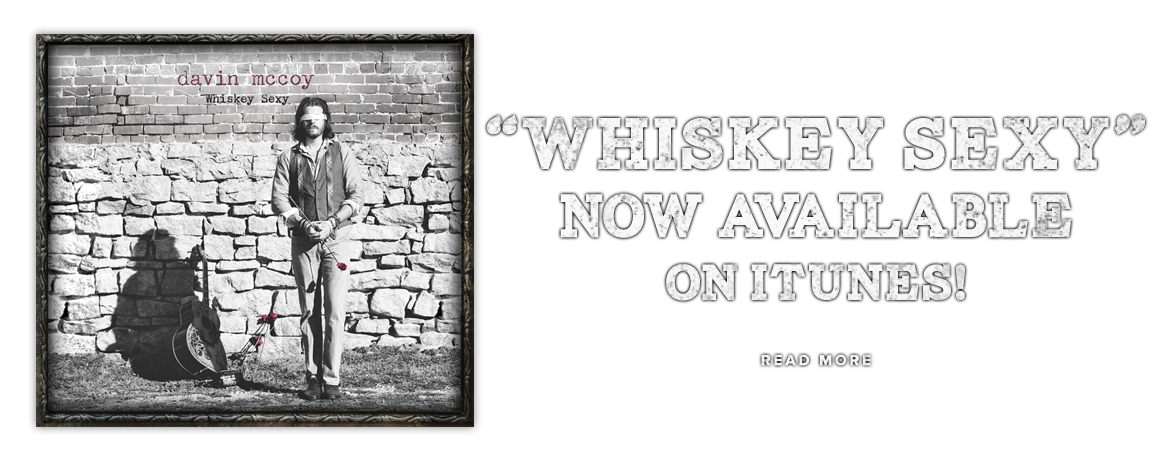
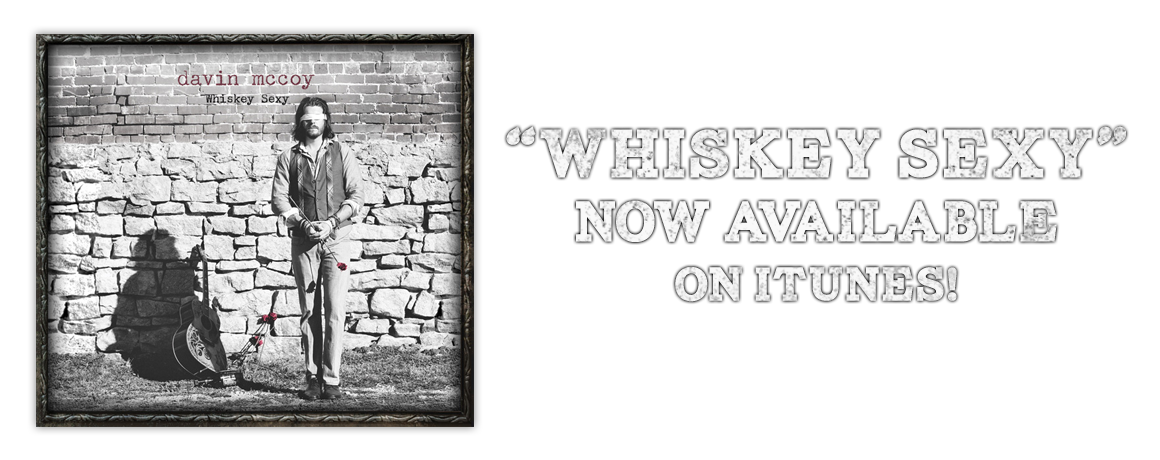
mobile friendly article headlines

Changed region(s): [[0.4034, 0.2435, 0.9931, 0.6696], [0.6517, 0.7609, 0.7759, 0.8217]]

diff --git a/assets/css/app.css b/assets/css/app.css
@@ -815,6 +815,11 @@ background: #1a1a1a;
 z-index: 1000;
 }
 
+h1.entry-title {
+text-align: left;
+font-size: 34px;
+}
+
 ul#menu-social-navigation li {
 font-size: 30px;
 }
